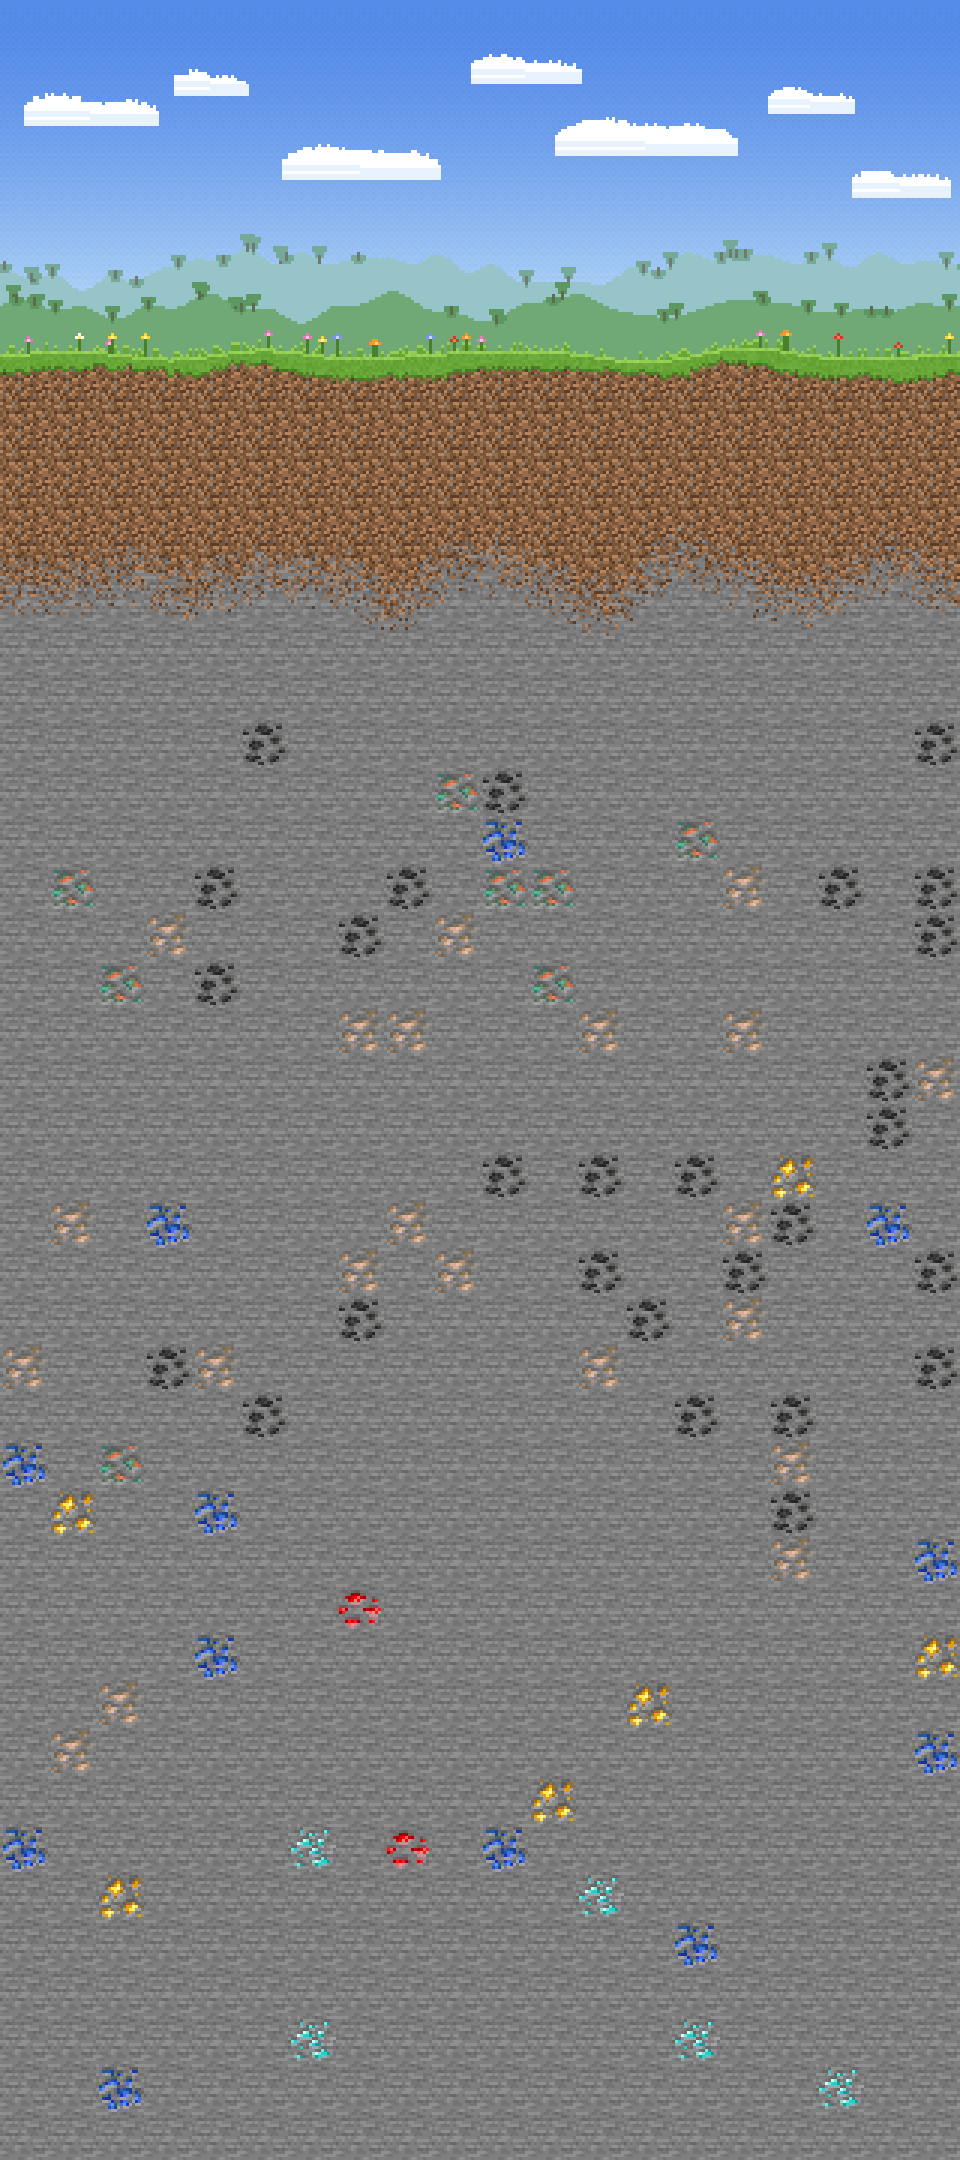
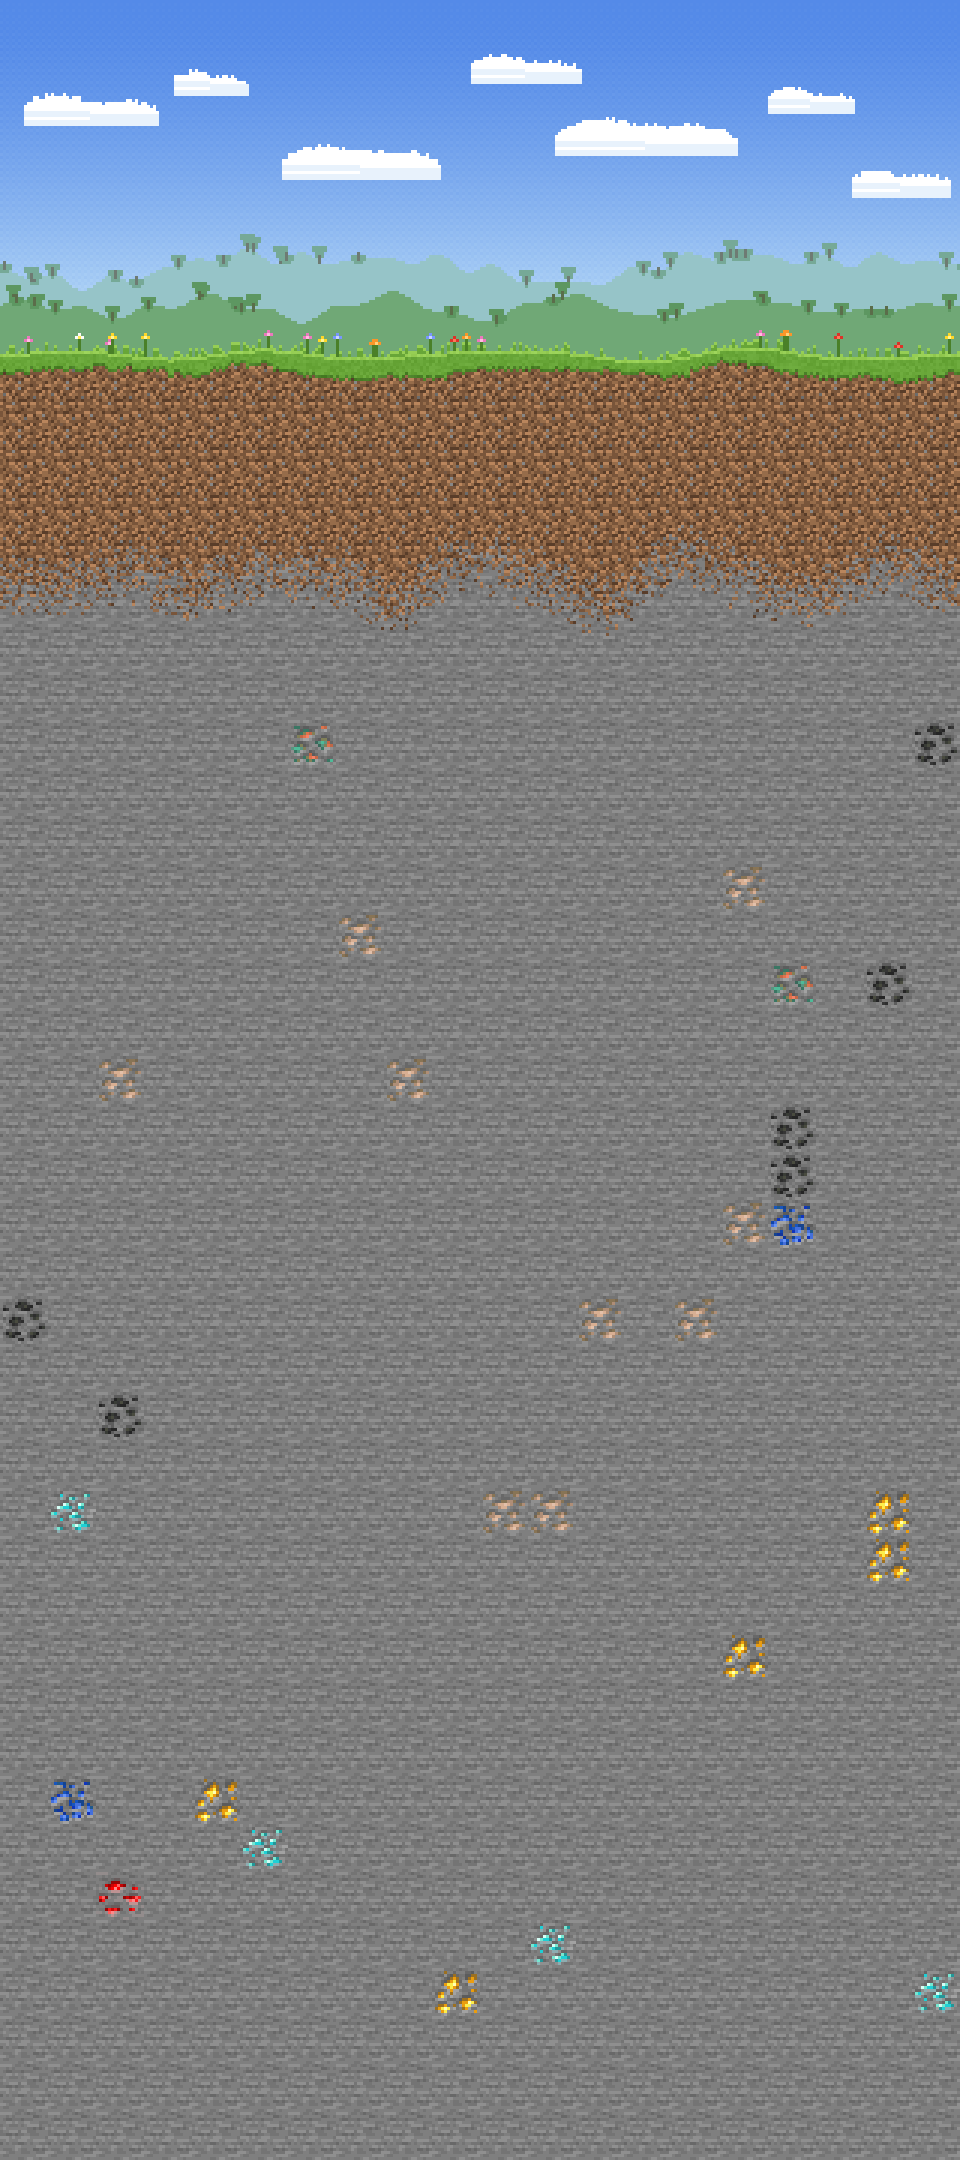
Wiki: far fewer ores in the background so they only break up the stone

diff --git a/tools/wiki/build.py b/tools/wiki/build.py
@@ -330,7 +330,7 @@ def build_landscape(vanilla, img):
                 wy = world_y(by, g)
                 weights = ore_weights(wy)
                 total = sum(weights.values())
-                if g.random() > min(0.22, 0.035 * total * (1 + (64 - wy) / 45.0)):   # deeper rock is richer overall
+                if g.random() > min(0.09, 0.015 * total * (1 + (64 - wy) / 60.0)):   # deeper rock is richer overall
                     continue
                 r_ = g.random() * total
                 for n, wgt in weights.items():
